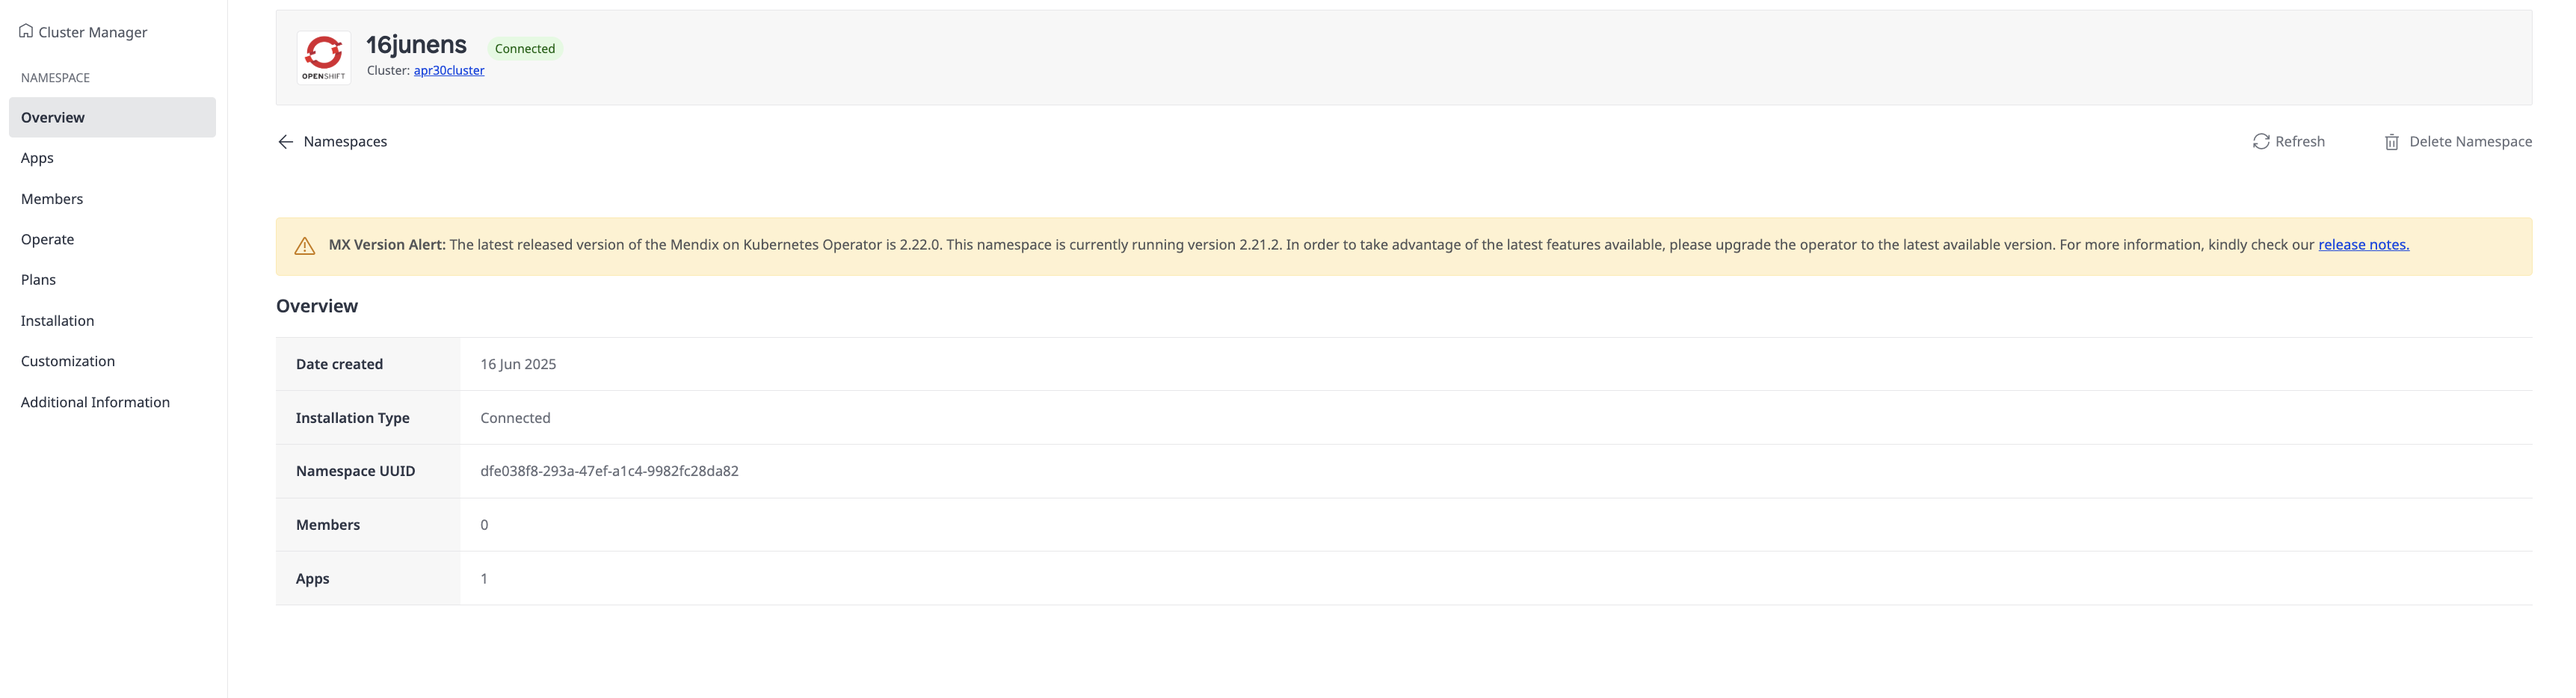
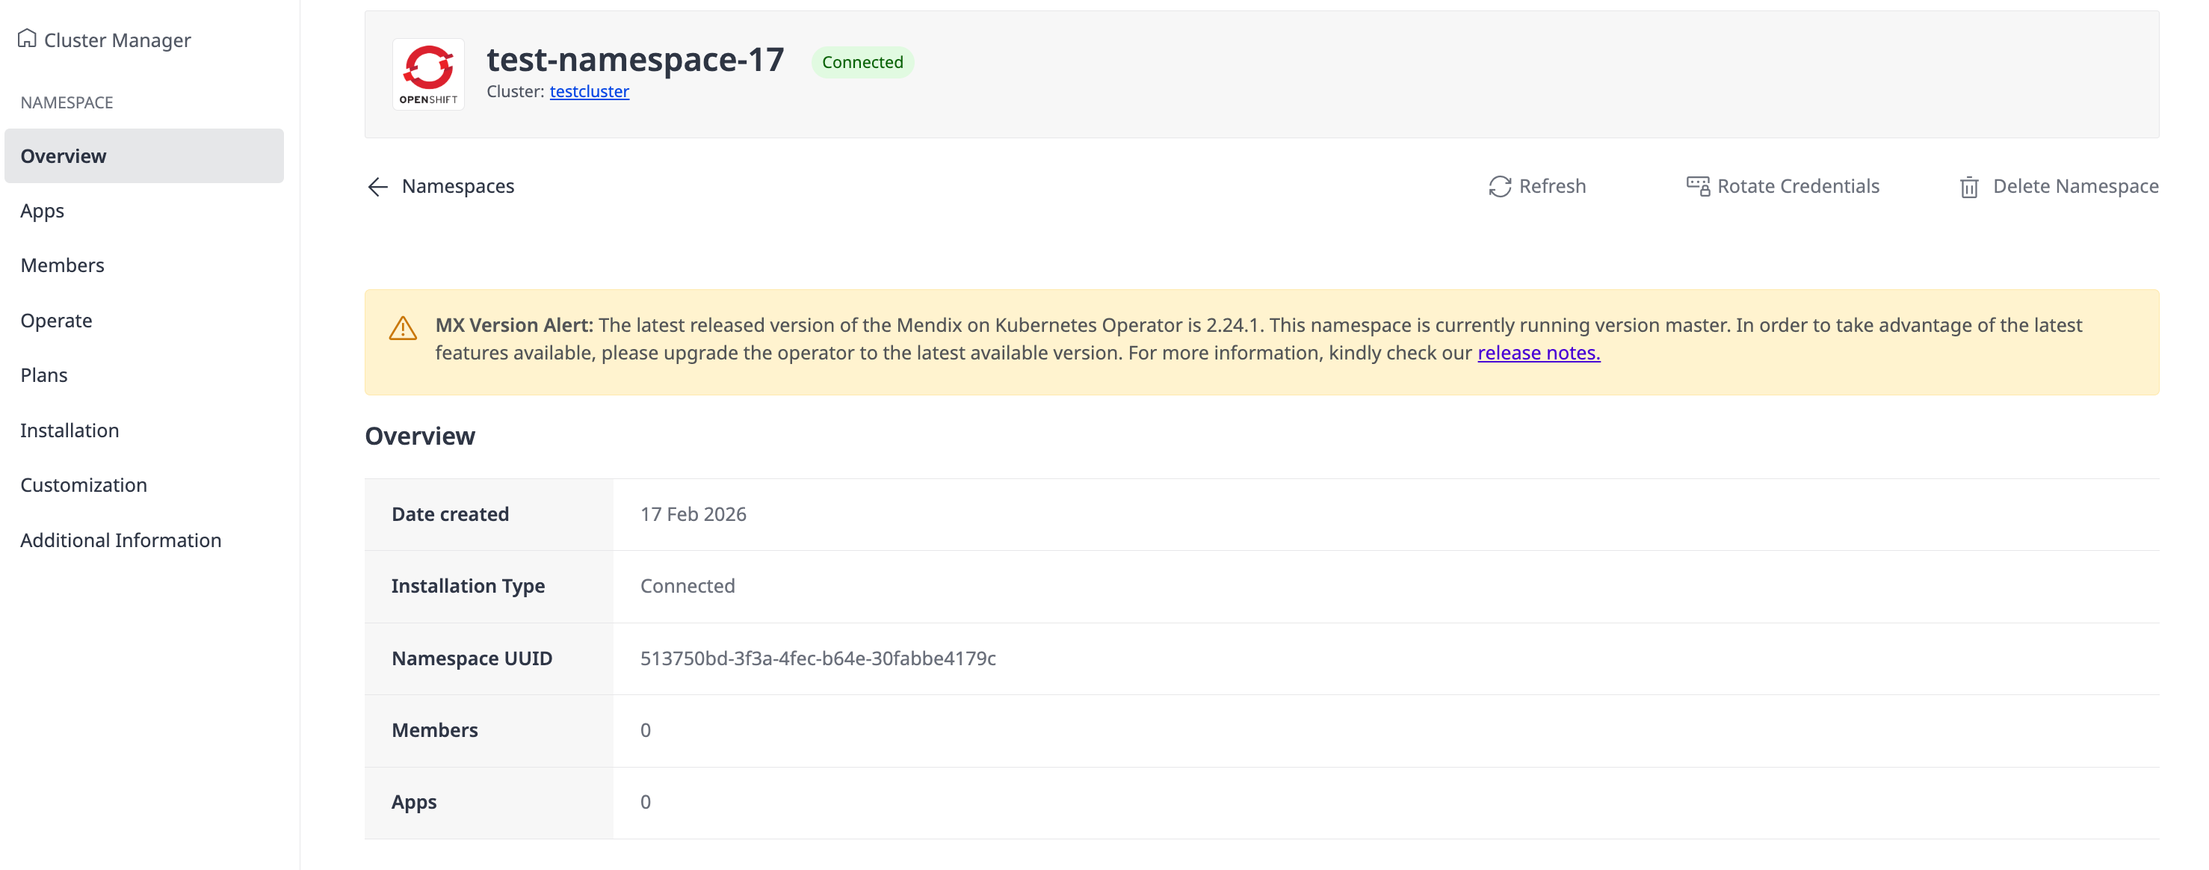
Doc updates

diff --git a/content/en/docs/deployment/private-cloud/private-cloud-cluster/_index.md b/content/en/docs/deployment/private-cloud/private-cloud-cluster/_index.md
@@ -1115,18 +1115,30 @@ Click the **Details** button for the namespace you want to manage.
 
 On the namespace management page, there are a number of tabs which allow you to manage aspects of your namespace :
 
-* Apps
-* Members
-* Operate
-* Plans
-* Installation
-* Additional information
-* Customization
-* PCLM Statistics
+* [Apps](#apps)
+* [Members](#members)
+* [Operate](#operate)
+* [Plans](#plans)
+* [Installation](#installation)
+* [Additional information](#additional-information)
+* [Customization](#customization)
+* [PCLM Statistics](#pclm-statistics)
 
 See the sections below for more information.
 
-You can also delete your namespace from the cluster manager by clicking **Delete Namespace** ({{% icon name="trash-can" %}}) in the top right.
+You can also [rotate your credentials](#rotate-credentials), or [delete](#delete-namespace) your namespace from the cluster manager.
+
+#### Rotating Credentials {#rotate-credentials}
+
+Rotating your credentials means replacing your current Mendix Agent secret with a new one. Rotate your credentials to ensure that your environment is secure, for example, in case of a credentials leak.
+
+To rotate the credentials, click **Rotate Credentials** in the top right, and then follow the on-screen wizard.
+
+{{< figure src="/attachments/deployment/private-cloud/private-cloud-cluster/RotateCredential.png" class="no-border" >}}
+
+#### Deleting Namespaces {#delete-namespace}
+
+To delete a namespace, click **Delete Namespace** ({{% icon name="trash-can" %}}) in the top right.
 
 {{< figure src="/attachments/deployment/private-cloud/private-cloud-cluster/image25.png" class="no-border" >}}
 
@@ -1251,7 +1263,7 @@ You can also see an activity log containing the following information for all na
 * When deployment strategy is enabled for an environment in a namespace
 * When deployment strategy is disabled for an environment in a namespace
 
-#### Apps
+#### Apps {#apps}
 
 The **Apps** tab of namespace details in the cluster manager page lists all the app environments which are deployed to this namespace.
 
@@ -1305,7 +1317,7 @@ The deployment strategy now includes the following options under the **Deploymen
 
 {{< figure src="/attachments/deployment/private-cloud/private-cloud-cluster/deploymentStrategy.png" class="no-border" >}}
 
-#### Members
+#### Members {#members}
 
 By default, the cluster manager, who created the cluster in Mendix, and anyone added as a cluster manager has full administration rights to the cluster and its namespaces. These cluster managers will also need to be given the appropriate permissions on the Kubernetes or OpenShift Cluster. The administration rights are:
 
@@ -1355,7 +1367,7 @@ You can invite additional members to the namespace, and configure their role dep
 3. Enter the **Email** of the person you want to invite.
 4. If you prefer the individual to join as a namespace member automatically, without requiring them to manually accept the invitation, you can enable the **Automatically accept invites** option.
 
-    {{% alert color="info" %}}The **Automatically accept invites** option is applicable only when the invited users have the same email domain as yours.{{% /alert %}}
+{{% alert color="info" %}}The **Automatically accept invites** option is applicable only when the invited users have the same email domain as yours.{{% /alert %}}
 
 5. Give them the rights they need. This can be:
 
@@ -1363,14 +1375,14 @@ You can invite additional members to the namespace, and configure their role dep
     2. **Administrator** – a standard set of rights needed by an administrator, these are listed on the screen
     3. **Custom** – This option is now deprecated.
 
-    {{% alert color="info" %}}
-    The custom permission if needed to be edited, a role need to be assigned with appropriate permissions. See [Roles and Permissions](/developerportal/deploy/private-cloud-cluster/#rolesandpermissions) for more information.
-    {{% /alert %}}
+{{% alert color="info" %}}
+The custom permission if needed to be edited, a role need to be assigned with appropriate permissions. See [Roles and Permissions](/developerportal/deploy/private-cloud-cluster/#rolesandpermissions) for more information.
+{{% /alert %}}
 
-    {{% alert color="info" %}}
-    If an application is in the Stopped state, the scaling does not come into effect until the application is Started. This means that you have to click **Start application** in order for the changes to be sent to the cluster.
-    Along with this, we have also decoupled the permission for modifying the MxAdmin password and managing environments.
-    {{% /alert %}}
+{{% alert color="info" %}}
+If an application is in the Stopped state, the scaling does not come into effect until the application is Started. This means that you have to click **Start application** in order for the changes to be sent to the cluster.
+Along with this, we have also decoupled the permission for modifying the MxAdmin password and managing environments.
+{{% /alert %}}
 
 6. Click **Send Invite** to send an invite to this person.
 
@@ -1406,7 +1418,7 @@ Open the **Operate** tab, enter the URLs relevant to your namespace, and click *
 
 {{< figure src="/attachments/deployment/private-cloud/private-cloud-cluster/image32.png" class="no-border" >}}
 
-#### Plans
+#### Plans {#plans}
 
 The **Plans** tab shows you the database and storage plans which are currently configured for your namespace.
 
@@ -1443,7 +1455,7 @@ kubectl -n {namespace} delete storageplan {StoragePlanName}
 
 {{% /alert %}}
 
-#### Custom Core Resource Plan {#custom-core-resource-plan}
+##### Custom Core Resource Plan {#custom-core-resource-plan}
 
 Here, you can create customized plan for your core resources.
 
@@ -1472,7 +1484,7 @@ Ephemeral Storage is a temporary storage attached to the lifecycle of a pod. Hen
 Once you enable the **Use custom core resources plans** button, you cannot switch back to the default core plans until you delete all the environments using the custom core plans and disable **Use custom core resources plans** button. A warning message with the same information is displayed when trying to enable this feature.
 {{% /alert %}}
 
-#### Installation
+#### Installation {#installation}
 
 The **Installation** tab shows you the Configuration Tool which you used to create the namespace, together with the parameters which are used to configure the agent. You can use the Configuration Tool again to change the configuration of your namespace by pasting the command into a command line terminal as described in [Running the Configuration Tool](/developerportal/deploy/standard-operator/#running-the-tool), above. You can also download the Configuration Tool again, if you wish.
 
@@ -1480,11 +1492,11 @@ The **Installation** tab shows you the Configuration Tool which you used to crea
 In case of Global Operator Managed namespace, you will see the Configuration tab instead of the Installation tab. For more information, see [Global Operator Namespace](/developerportal/deploy/global-operator/)
 {{% /alert %}}
 
-#### Additional Information
+#### Additional Information {#additional-information}
 
 This tab shows information on the versions of the various components installed in your namespace.
 
-#### Customization
+#### Customization {#customization}
 
 This tab allows the cluster manager to customize the enablement of the secret store, developer mode for the developers, and product type for the PCLM Runtime License.
 
@@ -1512,7 +1524,7 @@ The selected product type will be applied to all environments within this namesp
 
 {{< figure src="/attachments/deployment/private-cloud/private-cloud-cluster/Customization.png" class="no-border" >}}
 
-#### PCLM Statistics
+#### PCLM Statistics {pclm-statistics}
 
 This tab shows information about claimed licenses, operator licenses and runtime licenses.
 

diff --git a/content/en/docs/deployment/private-cloud/private-cloud-deploy.md b/content/en/docs/deployment/private-cloud/private-cloud-deploy.md
@@ -425,17 +425,17 @@ If you have any outstanding changes to your environment the page will display a 
 
 The environment details page consists of seven tabs:
 
-* General
-* Model Options
-* Network
-* Runtime
-* Log Levels
-* TLS
-* Debugger
+* [General](#general-tab)
+* [Model Options](#model-options-tab)
+* [Network](#network-tab)
+* [Runtime](#runtime-tab)
+* [Log Levels](#log-levels-tab)
+* [TLS](#tls-tab)
+* [Debugger](#debugger-tab)
 
 These tabs are described below.
 
-### General Tab
+### General Tab {#general-tab}
 
 The general tab shows information about your running app.
 
@@ -577,7 +577,7 @@ Your environment will be created as a Production environment.
 Your app can only be deployed to a production environment if [security in the app is set on](/refguide/app-security/). You will not receive an error if security is set off, but the deployment will appear to hang with a spinner being displayed.
 {{% /alert %}}
 
-### Model Options Tab
+### Model Options Tab {#model-options-tab}
 
 The **Model Options** tab allows you to change the configuration of scheduled events and constants in your app.
 
@@ -595,7 +595,7 @@ If the MxApp constants are configured in both the CSI Secrets Storage and anothe
 If you change the data type and value in the .mpr file, the changes are visible in the Portal. Changes that only affect the data value without altering the data type are not visible in the Portal.
 {{% /alert %}}
 
-### Network Tab
+### Network Tab {#network-tab}
 
 On the Network tab, you add client certificates (in the PKCS12 format) or certificate authorities (in the PEM format) for outgoing connections. These will be used when your application initiates SSL/TLS connections. This works in the same way as the Network tab for deployments to Mendix Cloud. 
 Starting from Mendix 10.24.1, the Mendix Runtime can set Custom Http Headers natively, without relying on an Ingress controller. For more details on these, see the [Network Tab](/developerportal/deploy/environments-details/#network-tab) section of **Environment Details**.
@@ -605,19 +605,37 @@ For security reasons, root CAs can only be enabled in custom [TLS section](/deve
 
 ### Runtime Tab {#runtime-tab}
 
-On the Runtime tab, you can change various runtime settings for your app environment. This works in the same way as the Runtime tab for deployments to Mendix Cloud. For more details on these, see the [Runtime Tab](/developerportal/deploy/environments-details/#runtime-tab) section of *Environment Details*.
-
-{{< figure src="/attachments/deployment/private-cloud/private-cloud-deploy/runtime-tab.png" class="no-border" >}}
+On the **Runtime** tab, you can add [Custom Runtime Settings](#custom-environment-variables) and [Custom Environment Variables](#custom-environment-variables). You can also use it to enable [leaderless mode](leaderless-mode) for the environment.
 
 {{% alert color="info" %}}
 When you use some settings on the Runtime tab for Mendix on Kubernetes they may work differently from how they work in Mendix Cloud.
 {{% /alert %}}
 
+### Leaderless Mode {leaderless-mode}
+
+In leaderless mode, the leader node is selected dynamically. To enable it for your environment, set the **Enable Leaderless Mode** to **On**.
+
+{{< figure src="/attachments/deployment/private-cloud/private-cloud-deploy/runtime-tab.png" class="no-border" >}}
+
+### Custom Runtime Settings {#custom-runtime-settings}
+
+Use the **Custom Runtime Settings** section to perform the following actions:
+
+* **Add** a new runtime setting
+* **Edit** the runtime setting
+* **Delete** the runtime setting
+
+For more information, see [Environment Details: Runtime Tab](/developerportal/deploy/environments-details/#runtime-tab) in the Mendix Cloud documentation.
+
 {{% alert color="info" %}}
 If the custom runtime settings are configured in both the CSI Secrets Storage and another location (such as the Mendix Portal or MendixApp CR), the secret storage configuration has a higher priority and overrides the value specified elsewhere.
 {{% /alert %}}
 
-### Log Levels Tab
+### Custom Environment Variables {#custom-environment-variables}
+
+Use the **Custom Environment Variables** section to add, edit, or delete an environment variable. For more information, see [Environment Details: Runtime Tab](/developerportal/deploy/environments-details/#runtime-tab) in the Mendix Cloud documentation.
+
+### Log Levels Tab {#log-levels-tab}
 
 On the **Log Levels** tab, you can change the log levels which are used for the log nodes in your app.
 
@@ -639,7 +657,7 @@ This might produce the log below for the example described above.
 
 For more information, see the [Log Levels Tab](/developerportal/deploy/environments-details/#log-levels) section of *Environment Details*.
 
-### TLS
+### TLS {#tls-tab}
 
 If you are using Mendix Operator version 1.5.0 or above, you can configure TLS for your environment from the Mendix Portal.
 
@@ -671,7 +689,7 @@ Click **Save** to confirm your new configuration.
 
 You will receive a warning that you have made some changes. Click **Apply Changes** to restart the app and apply the changes.
 
-### Debugger
+### Debugger {#debugger-tab}
 
 On the Debugger tab you can set up and view the credentials you need to debug your app when it is running in your private cloud. For more information see [Debugging Microflows Remotely](/refguide/debug-microflows-remotely/#private-cloud).
 
